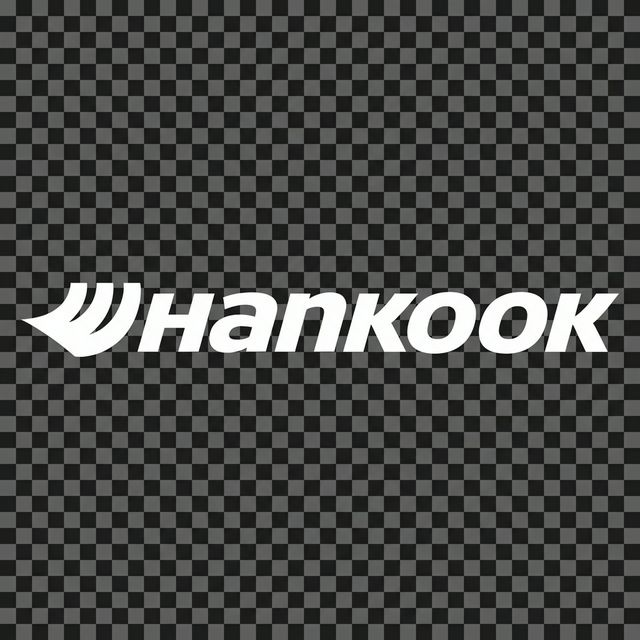
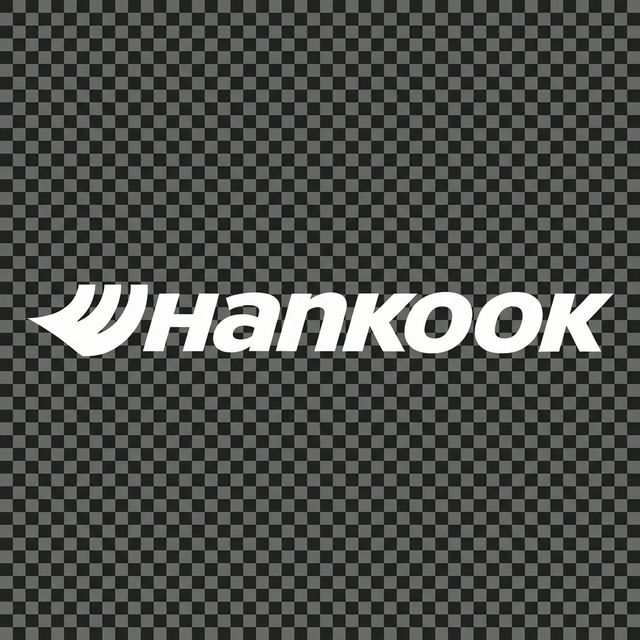
Marka logoları şeffaf ve parlak beyaz olarak güncellendi, Petlas eklendi

diff --git a/src/app/(public)/page.tsx b/src/app/(public)/page.tsx
@@ -74,16 +74,17 @@ export default async function HomePage() {
             </div>
 
             {/* Brand Logos */}
-            <div className="mt-20 w-full overflow-hidden border-t border-white/10 pt-12">
+            <div className="mt-16 w-full border-t border-white/10 pt-10">
               <p className="mb-8 text-center text-[10px] font-black uppercase tracking-[0.5em] text-white/30">Anlaşmalı Olduğumuz Seçkin Markalar</p>
-              <div className="flex flex-wrap items-center justify-center gap-12 md:gap-20 opacity-80 transition-all duration-500 hover:opacity-100">
-                <Image src="/brands/continental.png" alt="Continental" width={180} height={60} className="h-10 md:h-12 w-auto object-contain hover:scale-110 transition-transform" />
-                <Image src="/brands/michelin.png" alt="Michelin" width={180} height={60} className="h-12 md:h-16 w-auto object-contain hover:scale-110 transition-transform" />
-                <Image src="/brands/bridgestone.png" alt="Bridgestone" width={180} height={60} className="h-10 md:h-12 w-auto object-contain hover:scale-110 transition-transform" />
-                <Image src="/brands/pirelli.png" alt="Pirelli" width={180} height={60} className="h-10 md:h-12 w-auto object-contain hover:scale-110 transition-transform" />
-                <Image src="/brands/falken.png" alt="Falken" width={180} height={60} className="h-10 md:h-12 w-auto object-contain hover:scale-110 transition-transform" />
-                <Image src="/brands/lassa.png" alt="Lassa" width={180} height={60} className="h-10 md:h-12 w-auto object-contain hover:scale-110 transition-transform" />
-                <Image src="/brands/hankook.png" alt="Hankook" width={180} height={60} className="h-10 md:h-12 w-auto object-contain hover:scale-110 transition-transform" />
+              <div className="flex flex-wrap items-center justify-center gap-x-12 gap-y-8 px-4 opacity-100">
+                <Image src="/brands/continental.png" alt="Continental" width={160} height={50} className="h-7 md:h-8 w-auto object-contain brightness-200 contrast-200" />
+                <Image src="/brands/michelin.png" alt="Michelin" width={160} height={50} className="h-10 md:h-12 w-auto object-contain brightness-200 contrast-200" />
+                <Image src="/brands/bridgestone.png" alt="Bridgestone" width={160} height={50} className="h-7 md:h-8 w-auto object-contain brightness-200 contrast-200" />
+                <Image src="/brands/pirelli.png" alt="Pirelli" width={160} height={50} className="h-7 md:h-8 w-auto object-contain brightness-200 contrast-200" />
+                <Image src="/brands/falken.png" alt="Falken" width={160} height={50} className="h-7 md:h-8 w-auto object-contain brightness-200 contrast-200" />
+                <Image src="/brands/lassa.png" alt="Lassa" width={160} height={50} className="h-7 md:h-8 w-auto object-contain brightness-200 contrast-200" />
+                <Image src="/brands/petlas.png" alt="Petlas" width={160} height={50} className="h-7 md:h-8 w-auto object-contain brightness-200 contrast-200" />
+                <Image src="/brands/hankook.png" alt="Hankook" width={160} height={50} className="h-7 md:h-8 w-auto object-contain brightness-200 contrast-200" />
               </div>
             </div>
           </div>
